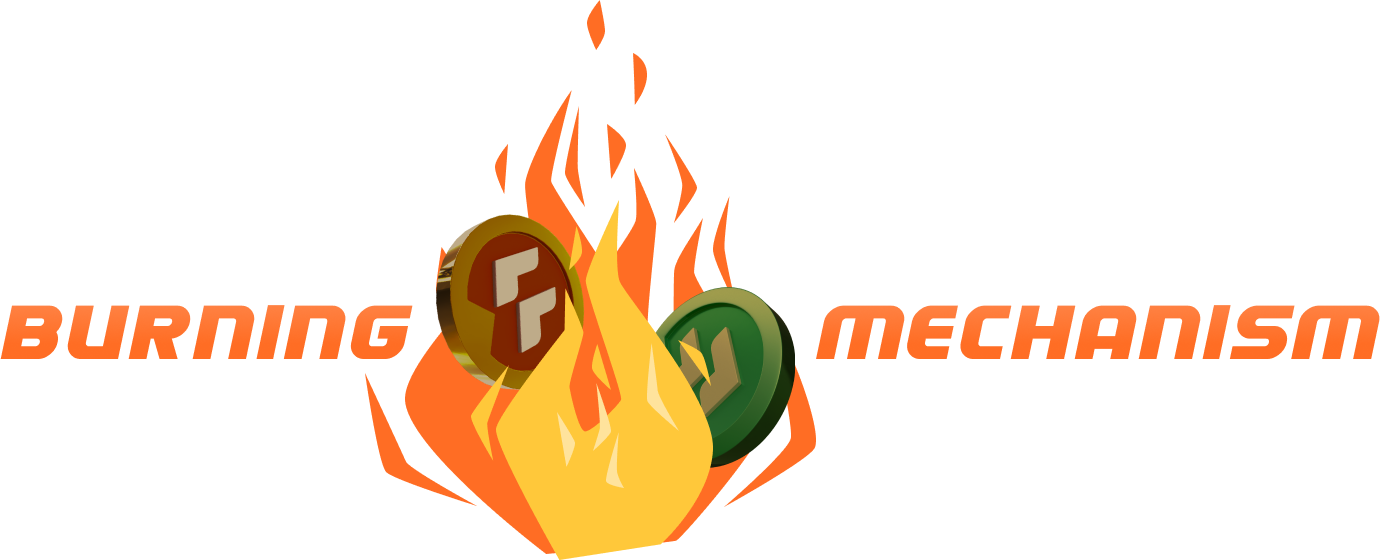
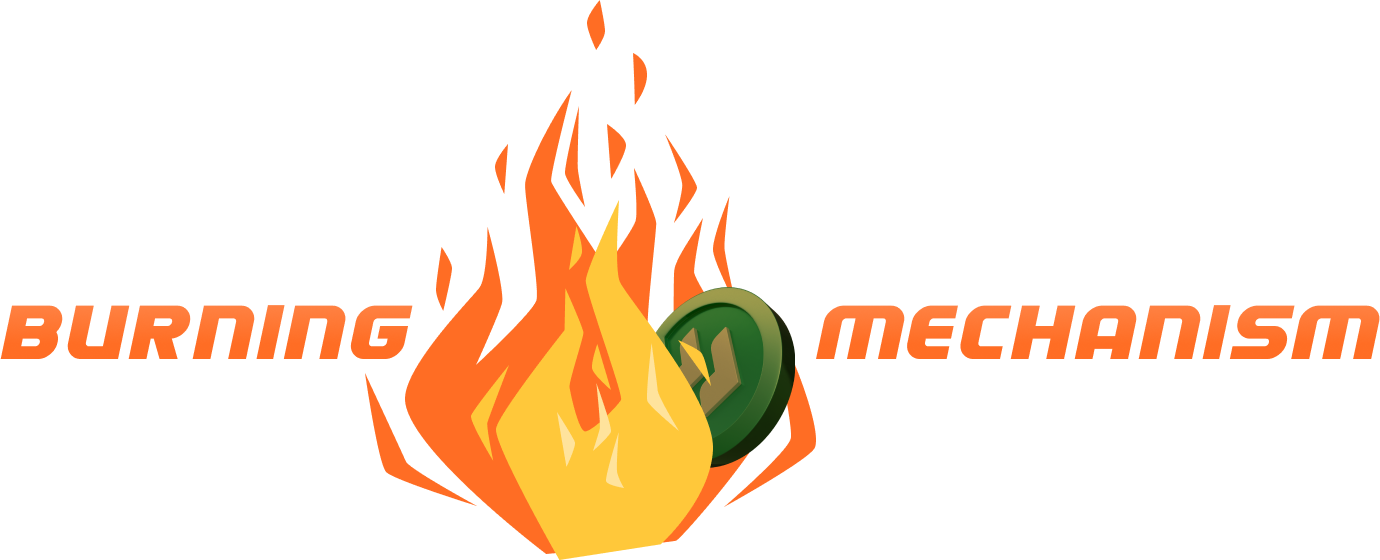
update content business

Changed region(s): [[0.3116, 0.3643, 0.4362, 0.6982]]

diff --git a/containers/business/Section4.tsx b/containers/business/Section4.tsx
@@ -36,17 +36,7 @@ export const Section4 = () => {
 			<SubTitle sx={{ fontSize: { xs: "20px", sm: '48px' }, lineHeight: { xs: "30px", sm: '72px' } }}>A  portion of the revenue in $HEE tokens are permanently destroyed via token burning. This immediately reduces the circulating supply of tokens.</SubTitle>
 			<Box sx={{ ...flex, justifyContent: "space-between", marginTop: { xs: "32px", md: "80px" }, flexDirection: { xs: "column", sm: "row" } }}>
 				<Box>
-					<Title sx={{}}>
-						<Typography sx={{ background: 'linear-gradient(180deg, #FF8A50 2.08%, #FF6D24 66.9%)', textTransform: 'uppercase', fontWeight: "900", fontSize: { xm: "24px !important", sm: '48px !important' } }}>$FIU TOKEN</Typography>
-					</Title>
-					<TitleText sx={{ textTransform: 'uppercase', fontSize: { xm: "24px !important", sm: '32px !important' } }}></TitleText>
-					<Details sx={{ '& span': { color: '#FF6D24' }, lineHeight: { xs: "22px", md: "64px" }, marginTop: { xs: "16px", md: "0px" } }}>  <Typography sx={{ lineHeight: { xs: "22px", sm: "64px" } }}>  25% Minting fee in $FIU </Typography></Details>
-					<Details sx={{ '& span': { color: '#FF6D24' }, lineHeight: { xs: "22px", md: "64px" }, marginTop: { xs: "16px", md: "0px" } }}>  <Typography sx={{ lineHeight: { xs: "22px", sm: "64px" } }}>  25% Leveling up fee in $FIU </Typography></Details>
-					<Details sx={{ '& span': { color: '#FF6D24' }, lineHeight: { xs: "22px", md: "64px" }, marginTop: { xs: "16px", md: "0px" } }}>  <Typography sx={{ lineHeight: { xs: "22px", sm: "64px" } }}>  25% Challenge rewards pool </Typography></Details>
-					<Details sx={{ '& span': { color: '#FF6D24' }, lineHeight: { xs: "22px", md: "64px" }, marginTop: { xs: "16px", md: "0px" } }}>  <Typography sx={{ lineHeight: { xs: "22px", sm: "64px" } }}>  1% of NFT Renting Rewards </Typography></Details>
-				</Box>
-				<Box sx={{ alignSelf: { xs: 'flex-end', sm: "auto" }, mt: "24px", '& p': {textAlign: 'right'}}}>
-					<Title>
+				<Title>
 						<Typography sx={{ background: 'linear-gradient(180deg, #8AFFC5 6.58%, #1DB167 80.6%)', textTransform: 'uppercase', fontWeight: "900", fontSize: { xm: "24px !important", sm: '48px !important' } }}>$HEE Token</Typography>
 					</Title>
 					<TitleText sx={{ textTransform: 'uppercase', fontSize: { xm: "24px !important", sm: '32px !important' } }}></TitleText>
